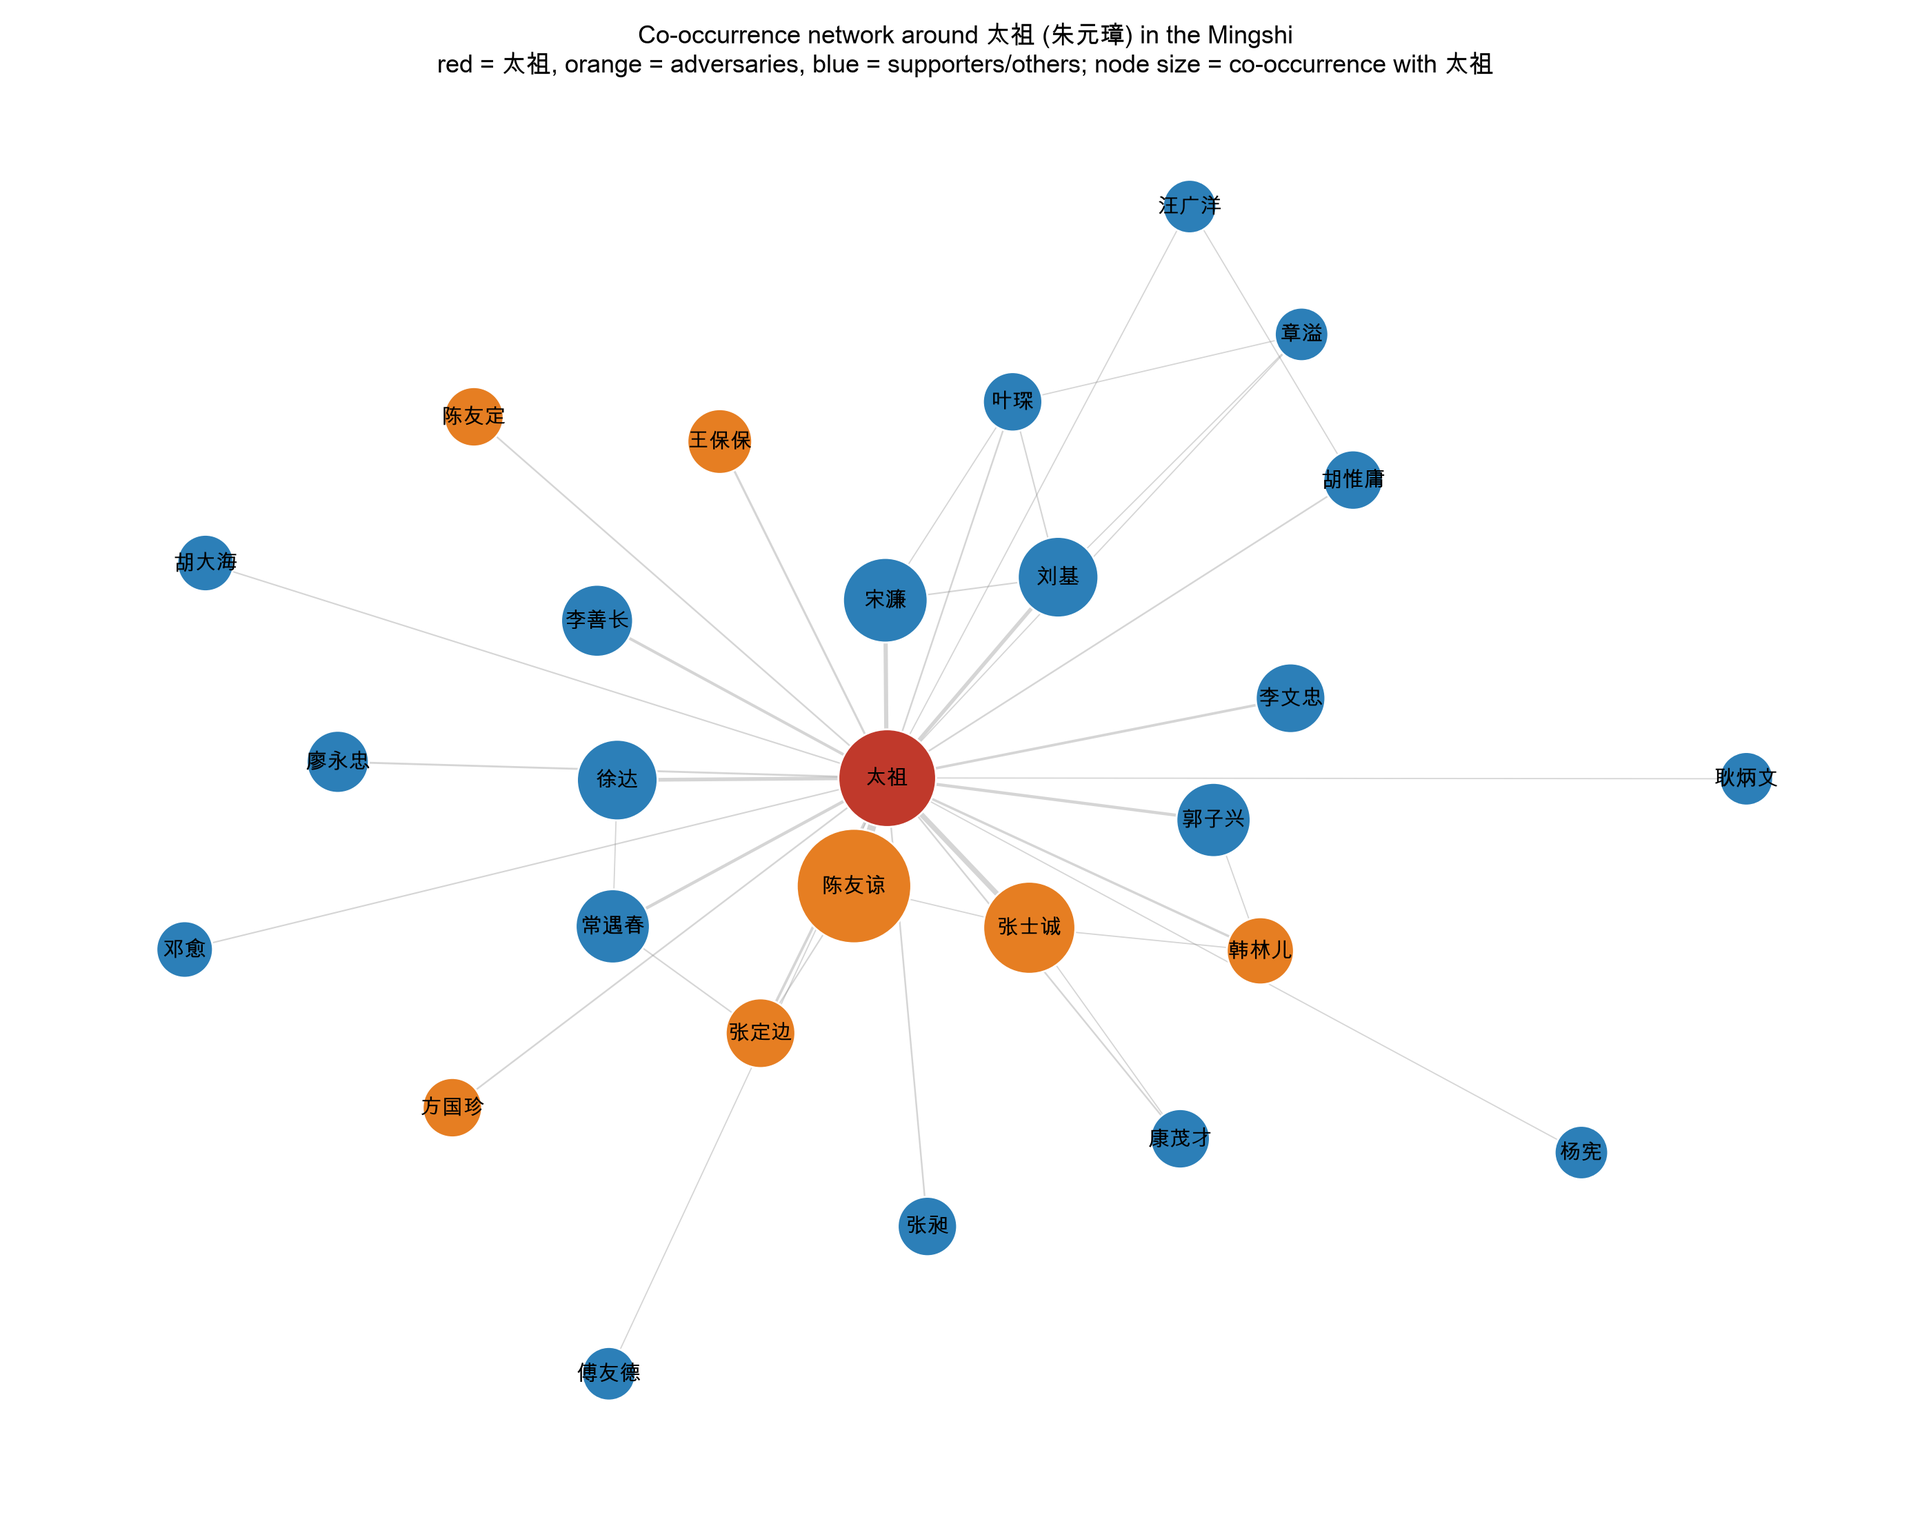
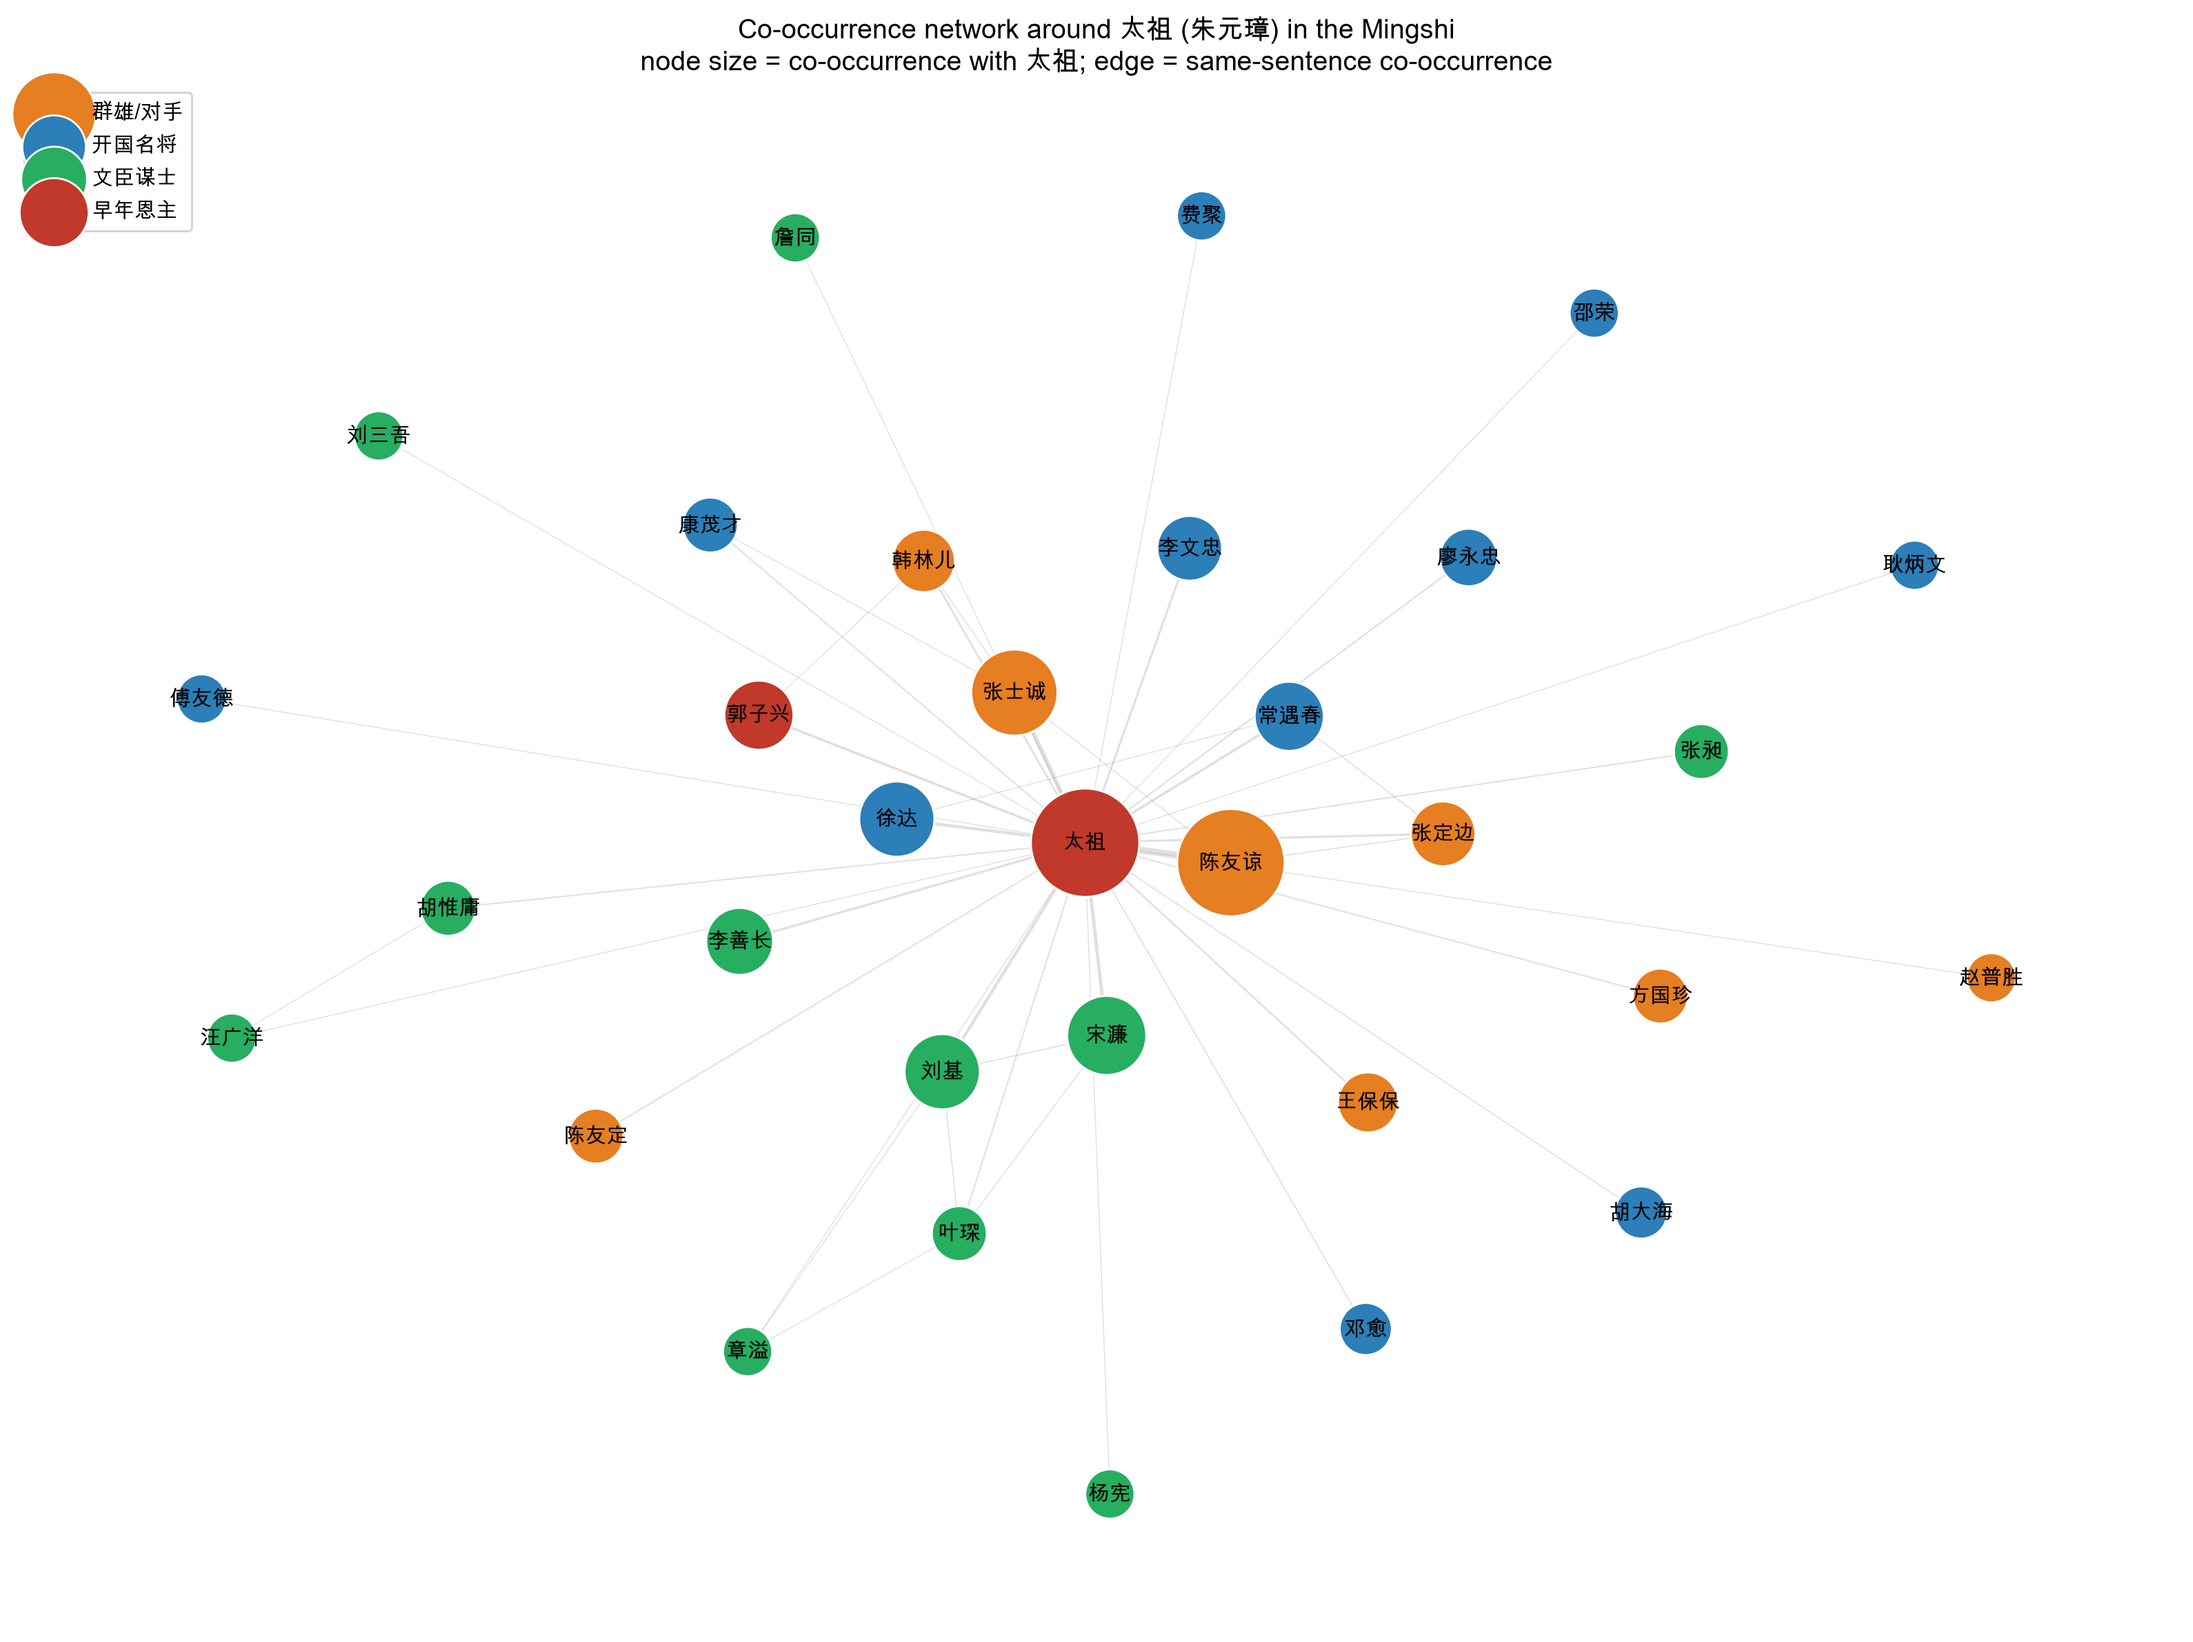
Improve 朱元璋 network: expand name list, group by camp, add edge CSV

diff --git a/network.py b/network.py
@@ -1,13 +1,17 @@
 """Co-occurrence network of people around 太祖 (Zhu Yuanzhang) in the Mingshi.
 
 For every sentence containing 太祖, the script detects a curated list of
-Yuan-Ming transition figures (canonical name + common short forms) and counts
-how often each person co-occurs with 太祖, and how often two people appear in
-the same 太祖 sentence. The result is drawn as a network and saved as
-output/zhuyuanzhang_network.png.
+Yuan-Ming transition figures (canonical name + common short forms), counts how
+often each person co-occurs with 太祖 and how often two people appear in the
+same 太祖 sentence, then draws a network grouped by faction.
+
+Outputs:
+  output/zhuyuanzhang_network.png        the network figure
+  output/zhuyuanzhang_network_edges.csv  node-node-weight edge list
 
 Run from the repository root:  python network.py
 """
+import csv
 import os
 from collections import Counter
 from itertools import combinations
@@ -24,35 +28,58 @@ matplotlib.rcParams["font.sans-serif"] = [
 matplotlib.rcParams["axes.unicode_minus"] = False
 
 SEGMENTED = "data/mingshi_segmented.txt"
-OUT = "output/zhuyuanzhang_network.png"
+OUT_PNG = "output/zhuyuanzhang_network.png"
+OUT_CSV = "output/zhuyuanzhang_network_edges.csv"
 TARGET = "太祖"
 
-# canonical name -> aliases (short forms the text also uses)
-ALIASES = {
-    "陈友谅": ["陈友谅", "友谅"], "张士诚": ["张士诚", "士诚"], "宋濂": ["宋濂"],
-    "徐达": ["徐达"], "刘基": ["刘基", "伯温"], "郭子兴": ["郭子兴", "子兴"],
-    "常遇春": ["常遇春"], "李善长": ["李善长"], "张定边": ["张定边", "定边"],
-    "李文忠": ["李文忠", "文忠"], "韩林儿": ["韩林儿", "林儿"], "廖永忠": ["廖永忠"],
-    "张昶": ["张昶"], "康茂才": ["康茂才", "茂才"], "陈友定": ["陈友定", "友定"],
-    "胡惟庸": ["胡惟庸"], "方国珍": ["方国珍", "国珍"], "叶琛": ["叶琛"],
-    "邓愈": ["邓愈"], "胡大海": ["胡大海"], "汪广洋": ["汪广洋"], "杨宪": ["杨宪"],
-    "傅友德": ["傅友德"], "耿炳文": ["耿炳文", "炳文"], "章溢": ["章溢"],
-    "李思齐": ["李思齐", "思齐"], "花云": ["花云"], "朱升": ["朱升"],
-    "朱亮祖": ["朱亮祖", "亮祖"], "冯胜": ["冯胜"], "汤和": ["汤和"],
-    "蓝玉": ["蓝玉"], "沐英": ["沐英"], "王保保": ["王保保", "保保", "扩廓"],
+# ---- curated people, grouped by camp ----
+GROUPS = {
+    "群雄/对手": ["陈友谅", "张士诚", "张定边", "韩林儿", "刘福通", "陈友定",
+                 "方国珍", "李思齐", "王保保", "明玉珍", "何真", "张良弼",
+                 "徐寿辉", "赵普胜", "彭莹玉"],
+    "开国名将": ["徐达", "常遇春", "汤和", "李文忠", "冯胜", "傅友德", "沐英",
+                 "邓愈", "廖永忠", "胡大海", "耿炳文", "康茂才", "花云",
+                 "朱亮祖", "吴良", "吴祯", "华云龙", "顾时", "陈德", "王志",
+                 "薛显", "梅思祖", "黄彬", "赵德胜", "丁德兴", "陆仲亨",
+                 "唐胜宗", "费聚", "周德兴", "谢再兴", "邵荣", "孙兴祖",
+                 "曹良臣", "廖永安", "俞通海", "郭英"],
+    "文臣谋士": ["刘基", "李善长", "宋濂", "章溢", "叶琛", "朱升", "陶安",
+                 "汪广洋", "杨宪", "张昶", "胡惟庸", "陈宁", "涂节",
+                 "刘三吾", "乐韶凤", "宋讷", "詹同", "陶凯", "陈遇",
+                 "秦从龙", "王袆", "苏伯衡", "高启"],
+    "皇亲宗室": ["马皇后", "朱标", "朱棣", "朱允炆", "朱樉", "朱棡", "朱橚",
+                 "朱文正"],
+    "元朝": ["脱脱", "纳哈出", "把匝剌瓦尔密"],
 }
-TOKEN2NAME = {a: c for c, als in ALIASES.items() for a in als}
+GROUP_COLOR = {
+    "群雄/对手": "#e67e22",
+    "开国名将": "#2c7fb8",
+    "文臣谋士": "#27ae60",
+    "皇亲宗室": "#8e44ad",
+    "元朝": "#7f8c8d",
+}
+SHORT = {
+    "陈友谅": ["友谅"], "张士诚": ["士诚"], "郭子兴": ["子兴"], "李文忠": ["文忠"],
+    "韩林儿": ["林儿"], "刘福通": ["福通"], "张定边": ["定边"], "方国珍": ["国珍"],
+    "刘基": ["伯温"], "王保保": ["保保", "扩廓"], "明玉珍": ["玉珍"],
+    "李思齐": ["思齐"], "陈友定": ["友定"], "张良弼": ["良弼"], "耿炳文": ["炳文"],
+    "康茂才": ["茂才"], "朱亮祖": ["亮祖"], "徐寿辉": ["寿辉"], "赵普胜": ["普胜"],
+    "彭莹玉": ["莹玉"],
+}
+# 郭子兴 is not in the groups above (early patron) -> add explicitly
+GROUPS["早年恩主"] = ["郭子兴"]
+GROUP_COLOR["早年恩主"] = "#c0392b"
 
-# adversaries (red) vs supporters/others (blue) — for colouring
-ADVERSARIES = {"陈友谅", "张士诚", "张定边", "韩林儿", "陈友定", "方国珍",
-               "李思齐", "王保保"}
+NAME2GROUP = {n: g for g, ns in GROUPS.items() for n in ns}
+ALIASES = {n: [n] + SHORT.get(n, []) for n in NAME2GROUP}
+TOKEN2NAME = {a: n for n, als in ALIASES.items() for a in als}
 
 
 def main():
     lines = open(SEGMENTED, encoding="utf-8").read().splitlines()
 
-    person_count = Counter()          # person co-occurring with 太祖
-    pair_count = Counter()            # two persons in the same 太祖 sentence
+    person_count = Counter()
+    pair_count = Counter()
     for line in lines:
         tokens = set(line.split())
         if TARGET not in tokens:
@@ -67,7 +94,7 @@ def main():
     names = [n for n, c in person_count.most_common() if c >= MIN_FREQ]
 
     G = nx.Graph()
-    G.add_node(TARGET)
+    G.add_node(TARGET, freq=max(person_count.values()) * 1.2)
     for n in names:
         G.add_node(n, freq=person_count[n])
         G.add_edge(TARGET, n, weight=person_count[n])
@@ -76,35 +103,44 @@ def main():
             G.add_edge(a, b, weight=w)
 
     # ---- draw ----
-    fig, ax = plt.subplots(figsize=(14, 11))
-    pos = nx.spring_layout(G, k=0.9, seed=42, iterations=200)
+    fig, ax = plt.subplots(figsize=(16, 12))
+    pos = nx.spring_layout(G, k=1.1, seed=7, iterations=300)
 
     center = [TARGET]
-    adversaries = [n for n in G.nodes if n in ADVERSARIES]
-    others = [n for n in G.nodes if n != TARGET and n not in ADVERSARIES]
-
-    nx.draw_networkx_edges(G, pos, ax=ax, width=[0.4 + 0.12 * G[u][v]["weight"]
-                            for u, v in G.edges], alpha=0.35, edge_color="#888")
+    nx.draw_networkx_edges(G, pos, ax=ax, width=[0.3 + 0.10 * G[u][v]["weight"]
+                            for u, v in G.edges], alpha=0.3, edge_color="#999")
     nx.draw_networkx_nodes(G, pos, nodelist=center, node_color="#c0392b",
-                           node_size=2600, ax=ax, edgecolors="white")
-    nx.draw_networkx_nodes(G, pos, nodelist=others, node_color="#2c7fb8",
-                           node_size=[600 + 90 * G.nodes[n]["freq"] for n in others],
-                           ax=ax, edgecolors="white")
-    nx.draw_networkx_nodes(G, pos, nodelist=adversaries, node_color="#e67e22",
-                           node_size=[600 + 90 * G.nodes[n]["freq"] for n in adversaries],
-                           ax=ax, edgecolors="white")
+                           node_size=3200, ax=ax, edgecolors="white")
+    for group, color in GROUP_COLOR.items():
+        nodes = [n for n in G.nodes if NAME2GROUP.get(n) == group]
+        if not nodes:
+            continue
+        nx.draw_networkx_nodes(
+            G, pos, nodelist=nodes, node_color=color,
+            node_size=[500 + 80 * G.nodes[n]["freq"] for n in nodes],
+            ax=ax, edgecolors="white", label=group)
     nx.draw_networkx_labels(G, pos, ax=ax, font_size=11)
 
     ax.set_title("Co-occurrence network around 太祖 (朱元璋) in the Mingshi\n"
-                 "red = 太祖, orange = adversaries, blue = supporters/others; "
-                 "node size = co-occurrence with 太祖", fontsize=13)
+                 "node size = co-occurrence with 太祖; edge = same-sentence co-occurrence",
+                 fontsize=14)
+    ax.legend(scatterpoints=1, loc="upper left", fontsize=11, framealpha=0.9)
     ax.axis("off")
     os.makedirs("output", exist_ok=True)
     fig.tight_layout()
-    fig.savefig(OUT, dpi=200)
-    print(f"wrote {OUT}: {G.number_of_nodes()} nodes, {G.number_of_edges()} edges")
+    fig.savefig(OUT_PNG, dpi=200, bbox_inches="tight")
+
+    with open(OUT_CSV, "w", encoding="utf-8", newline="") as f:
+        writer = csv.writer(f)
+        writer.writerow(["source", "target", "weight"])
+        for u, v, d in G.edges(data=True):
+            writer.writerow([u, v, d["weight"]])
+
+    print(f"wrote {OUT_PNG}: {G.number_of_nodes()} nodes, "
+          f"{G.number_of_edges()} edges")
+    print(f"wrote {OUT_CSV}")
     print("top persons:", ", ".join(f"{n}({person_count[n]})"
-                                    for n in names[:15]))
+                                    for n in names[:20]))
 
 
 if __name__ == "__main__":
